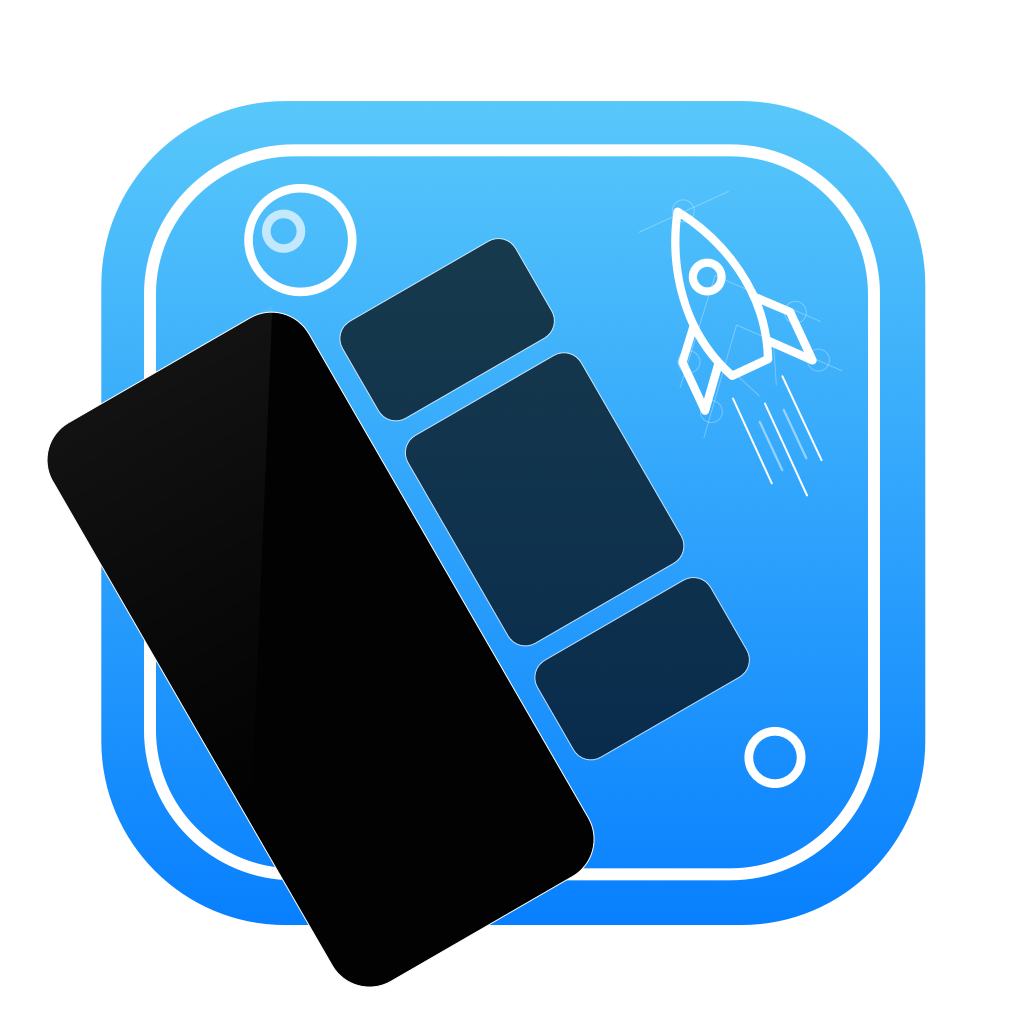
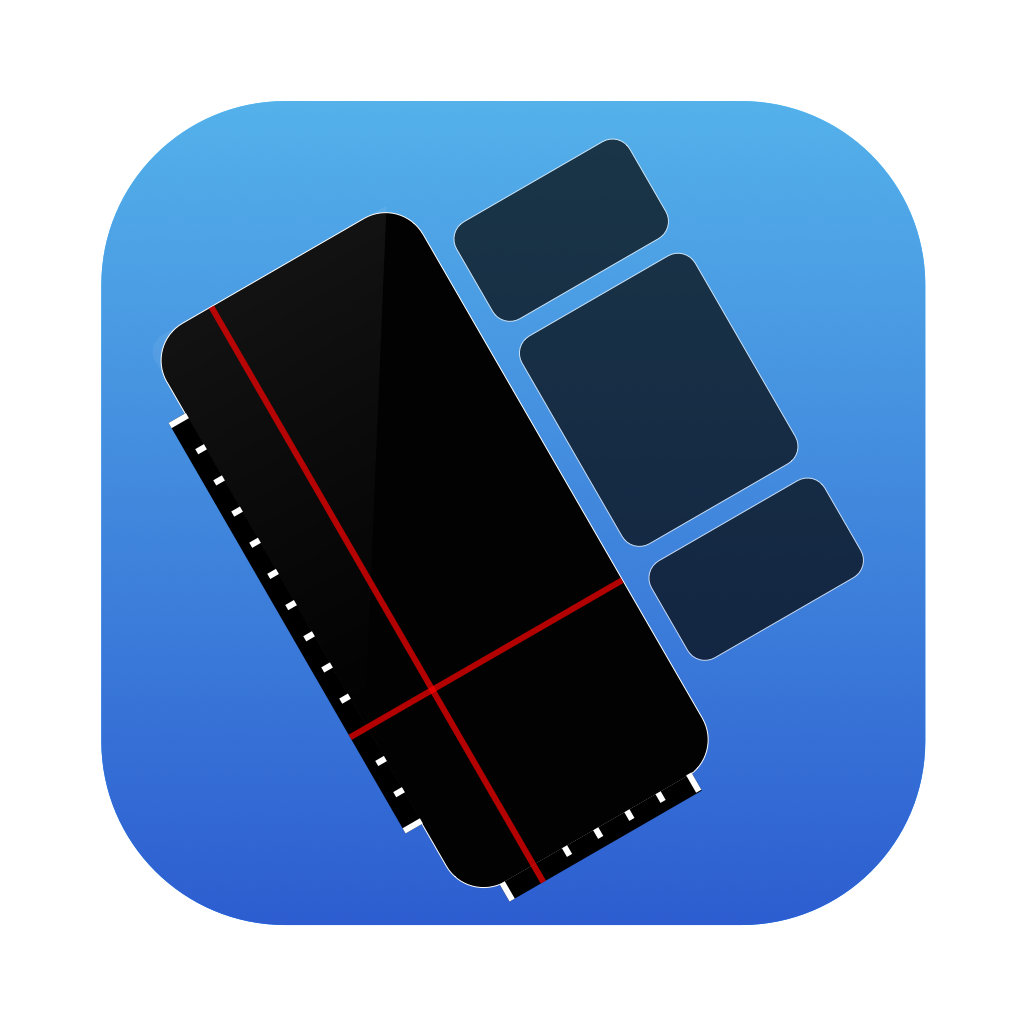
Update for RocketSim 8.0

diff --git a/docs/index.html b/docs/index.html
@@ -63,7 +63,7 @@
                         <a class="blog-logo" href="https://www.rocketsim.app/" rel="home">RocketSim</a>
                     </h1>
                     <h2 class="section-headline">Enhancing the iOS Simulator</h2>
-                    <p class="gray-text">Compare designs, right in the simulator. Create recordings with touches, trim and export them into MP4 or GIF and share them anywhere using drag & drop. Add bezels to screenshots and videos. Perform actions with your latest builds.</p>
+                    <p class="gray-text">Compare designs, show rulers, add a grid, quick actions for recent builds. Create recordings with touches, trim and export them into MP4 or GIF and share them anywhere using drag & drop. Add bezels to screenshots and videos.</p>
 
                     <p class="gray-text">And that's not all. Organise and launch Universal Links (deeplinks) with ease.</p>
                     <p>
@@ -105,6 +105,37 @@
                             <li><span class="text-headline">Grant, revoke, or reset permissions</span> like photo and location access, allowing you to quicker test related implementations</li>
                         </ul>
                     </span>
+                </div>
+            </div>
+        </div>
+
+        <!--Grid-->
+        <div class="container feature-section" id="grids">
+            <div class="row align-items-center">
+                <div class="col-md-8 wow fadeInUp">
+                    <img src="Assets/grids.jpg" />
+                </div>
+                <div class="col-md-4 wow fadeInRight">
+                    <span class="align-middle">
+                        <h2>Grids</h2>
+                        <p class="gray-text">Use the <span class="text-headline">grid overlay</span> to perfectly align elements across the screen. Change the color and spacing to match your needs.</p>
+                    </span>
+                </div>
+            </div>
+        </div>
+
+
+        <!--Rulers-->
+        <div class="container feature-section" id="rulers">
+            <div class="row align-items-center">
+                <div class="col-md-4 wow fadeInRight">
+                    <span class="align-middle">
+                        <h2>Rulers</h2>
+                        <p class="gray-text"><span class="text-headline">Horizontal and vertical rulers</span> give you precise control. Coordinates are shown in on-device pixels so you know exactly where elements are placed.</p>
+                    </span>
+                </div>
+                <div class="col-md-8 wow fadeInUp">
+                    <img src="Assets/rulers.jpg" />
                 </div>
             </div>
         </div>
@@ -223,7 +254,7 @@
                     </div>
                 </div>
                 <div class="col-md-4 text-center wow fadeInUp">
-                    <img src="Assets/statusbar_menu.png" />
+                    <img src="Assets/statusbar_menu.jpg" />
                 </div>
                 <div class="col-md-4 wow fadeInLeft">
                     <div class="feature-item">
@@ -302,11 +333,11 @@
 							</div>
 							<div class="col-xs-6 col-sm-4">
 								<figure class="comparing-icon"></figure>
-								<h3>Unlimited compares.</h3>
-								<p>Always reach that pixel-perfect implementation.</p>
+								<h3>Design like a PRO.</h3>
+								<p>Unlimited compares, custom grids, and sticky rulers.</p>
 							</div>
                             <div class="col-xs-12 col-sm-12">
-                                <p  class="gray-text">And much more: Configure windows visibility, minimized capturing window, access to all privacy actions and directories, custom touches color, custom color for captures, optimise for App Previews, optimise recordings for quality or speed.</p>
+                                <p  class="gray-text">And much more: Configure windows visibility, minimized capturing window, access to all privacy actions and directories, custom touches color, custom color for captures, optimise for App Previews, optimise recordings for quality or speed, delete Derived Data globally and per app.</p>
                             </div>
 							<div class="col-xs-12 col-sm-12 justify-content-center text-center wow fadeInUp">
 	                            <p class="lead">

diff --git a/docs/styleA.css b/docs/styleA.css
@@ -286,7 +286,7 @@ video {
 }
 
 /* Recent builds */
-#recent-builds img {
+#recent-builds img, #grids img, #rulers img {
 	width: 100%;
 	border-radius: 20px;
 }
